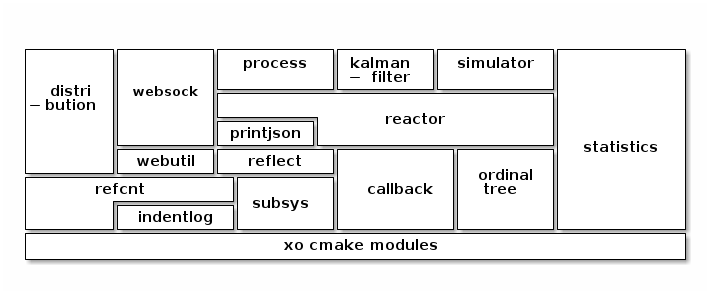
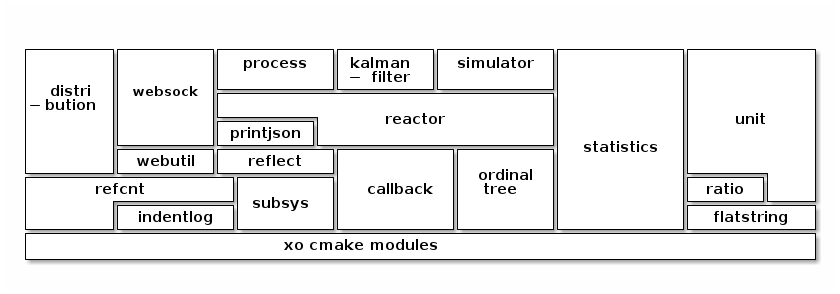
update

diff --git a/sw/xo.html b/sw/xo.html
@@ -3,7 +3,7 @@
 "http://www.w3.org/TR/xhtml1/DTD/xhtml1-strict.dtd">
 <html xmlns="http://www.w3.org/1999/xhtml" lang="en" xml:lang="en">
 <head>
-<!-- 2024-04-18 Thu 18:04 -->
+<!-- 2024-04-25 Thu 18:08 -->
 <meta http-equiv="Content-Type" content="text/html;charset=utf-8" />
 <meta name="viewport" content="width=device-width, initial-scale=1" />
 <title>xo libraries</title>
@@ -115,6 +115,7 @@ data structures
 dimension [wip]
 </p>
 <ul class="org-ul">
+<li><a href="https://github.com/rconybea/xo-unit">xo-unit</a> header-only.  no-alloc constexpr exact unit conversions with some fractional-dimension support.</li>
 <li><a href="https://github.com/rconybea/xo-ratio">xo-ratio</a> header-only.  no-alloc constexpr exact ratio arithmetic.</li>
 <li><a href="https://github.com/rconybea/xo-flatstring">xo-flatstring</a> header-only. no-alloc plain-old-data constexpr string implementation</li>
 </ul>
@@ -215,7 +216,7 @@ Each python library <code>pyfoo</code> depends on similarly-named c++ library <c
 </div>
 <div id="postamble" class="status">
 <p class="author">Author: Roland Conybeare</p>
-<p class="date">Created: 2024-04-18 Thu 18:04</p>
+<p class="date">Created: 2024-04-25 Thu 18:08</p>
 <p class="validation"><a href="https://validator.w3.org/check?uri=referer">Validate</a></p>
 </div>
 </body>

diff --git a/orgpub/org-examples-src.html b/orgpub/org-examples-src.html
@@ -3,7 +3,7 @@
 "http://www.w3.org/TR/xhtml1/DTD/xhtml1-strict.dtd">
 <html xmlns="http://www.w3.org/1999/xhtml" lang="en" xml:lang="en">
 <head>
-<!-- 2024-04-18 Thu 18:04 -->
+<!-- 2024-04-25 Thu 18:08 -->
 <meta http-equiv="Content-Type" content="text/html;charset=utf-8" />
 <meta name="viewport" content="width=device-width, initial-scale=1" />
 <title>org-examples source</title>
@@ -222,7 +222,7 @@ org_html_manager.setup();  // activate after the parameters are set
  <a accesskey="H" href="../index.html"> HOME </a>
 </div><div id="content" class="content">
 <h1 class="title">org-examples source</h1>
-<pre class="example" id="org3b9a980">
+<pre class="example" id="org2433192">
 #+title: org-mode examples / tutorial
 # H:2   controls section numbering.
 #       number top-level and second-level headings only
@@ -310,7 +310,7 @@ org_html_manager.setup();  // activate after the parameters are set
 </div>
 <div id="postamble" class="status">
 <p class="author">Author: Roland Conybeare</p>
-<p class="date">Created: 2024-04-18 Thu 18:04</p>
+<p class="date">Created: 2024-04-25 Thu 18:08</p>
 <p class="validation"><a href="https://validator.w3.org/check?uri=referer">Validate</a></p>
 </div>
 </body>

diff --git a/d3/drag4/index-src.html b/d3/drag4/index-src.html
@@ -3,7 +3,7 @@
 "http://www.w3.org/TR/xhtml1/DTD/xhtml1-strict.dtd">
 <html xmlns="http://www.w3.org/1999/xhtml" lang="en" xml:lang="en">
 <head>
-<!-- 2024-04-18 Thu 18:04 -->
+<!-- 2024-04-25 Thu 18:08 -->
 <meta http-equiv="Content-Type" content="text/html;charset=utf-8" />
 <meta name="viewport" content="width=device-width, initial-scale=1" />
 <title>d3/drag4 .org source</title>
@@ -222,7 +222,7 @@ org_html_manager.setup();  // activate after the parameters are set
  <a accesskey="H" href="../../index.html"> HOME </a>
 </div><div id="content" class="content">
 <h1 class="title">d3/drag4 .org source</h1>
-<pre class="example" id="org1654733">
+<pre class="example" id="orgc733e67">
 #+title: d3 draggable object example #4 -- parametric + improved selection identification
 #
 # org-publish options
@@ -434,7 +434,7 @@ org_html_manager.setup();  // activate after the parameters are set
 </div>
 <div id="postamble" class="status">
 <p class="author">Author: Roland Conybeare</p>
-<p class="date">Created: 2024-04-18 Thu 18:04</p>
+<p class="date">Created: 2024-04-25 Thu 18:08</p>
 <p class="validation"><a href="https://validator.w3.org/check?uri=referer">Validate</a></p>
 </div>
 </body>

diff --git a/d3/drag5/index-src.html b/d3/drag5/index-src.html
@@ -3,7 +3,7 @@
 "http://www.w3.org/TR/xhtml1/DTD/xhtml1-strict.dtd">
 <html xmlns="http://www.w3.org/1999/xhtml" lang="en" xml:lang="en">
 <head>
-<!-- 2024-04-18 Thu 18:04 -->
+<!-- 2024-04-25 Thu 18:08 -->
 <meta http-equiv="Content-Type" content="text/html;charset=utf-8" />
 <meta name="viewport" content="width=device-width, initial-scale=1" />
 <title>d3/drag5 .org source</title>
@@ -222,7 +222,7 @@ org_html_manager.setup();  // activate after the parameters are set
  <a accesskey="H" href="../../index.html"> HOME </a>
 </div><div id="content" class="content">
 <h1 class="title">d3/drag5 .org source</h1>
-<pre class="example" id="org3747ee6">
+<pre class="example" id="org5210cf2">
 #+title: d3 draggable object example #5 -- parametric + tangent line
 #
 # org-publish options
@@ -401,7 +401,7 @@ org_html_manager.setup();  // activate after the parameters are set
 </div>
 <div id="postamble" class="status">
 <p class="author">Author: Roland Conybeare</p>
-<p class="date">Created: 2024-04-18 Thu 18:04</p>
+<p class="date">Created: 2024-04-25 Thu 18:08</p>
 <p class="validation"><a href="https://validator.w3.org/check?uri=referer">Validate</a></p>
 </div>
 </body>

diff --git a/d3/drag1/index-src.html b/d3/drag1/index-src.html
@@ -3,7 +3,7 @@
 "http://www.w3.org/TR/xhtml1/DTD/xhtml1-strict.dtd">
 <html xmlns="http://www.w3.org/1999/xhtml" lang="en" xml:lang="en">
 <head>
-<!-- 2024-04-18 Thu 18:04 -->
+<!-- 2024-04-25 Thu 18:08 -->
 <meta http-equiv="Content-Type" content="text/html;charset=utf-8" />
 <meta name="viewport" content="width=device-width, initial-scale=1" />
 <title>d3/drag1 .org source</title>
@@ -222,7 +222,7 @@ org_html_manager.setup();  // activate after the parameters are set
  <a accesskey="H" href="../../index.html"> HOME </a>
 </div><div id="content" class="content">
 <h1 class="title">d3/drag1 .org source</h1>
-<pre class="example" id="org97277d4">
+<pre class="example" id="org768589b">
 #+title: d3 draggable object example #1 -- standalone
 #
 # org-publish options
@@ -291,7 +291,7 @@ org_html_manager.setup();  // activate after the parameters are set
 </div>
 <div id="postamble" class="status">
 <p class="author">Author: Roland Conybeare</p>
-<p class="date">Created: 2024-04-18 Thu 18:04</p>
+<p class="date">Created: 2024-04-25 Thu 18:08</p>
 <p class="validation"><a href="https://validator.w3.org/check?uri=referer">Validate</a></p>
 </div>
 </body>

diff --git a/d3/drag3/index-src.html b/d3/drag3/index-src.html
@@ -3,7 +3,7 @@
 "http://www.w3.org/TR/xhtml1/DTD/xhtml1-strict.dtd">
 <html xmlns="http://www.w3.org/1999/xhtml" lang="en" xml:lang="en">
 <head>
-<!-- 2024-04-18 Thu 18:04 -->
+<!-- 2024-04-25 Thu 18:08 -->
 <meta http-equiv="Content-Type" content="text/html;charset=utf-8" />
 <meta name="viewport" content="width=device-width, initial-scale=1" />
 <title>d3/drag3 .org source</title>
@@ -222,7 +222,7 @@ org_html_manager.setup();  // activate after the parameters are set
  <a accesskey="H" href="../../index.html"> HOME </a>
 </div><div id="content" class="content">
 <h1 class="title">d3/drag3 .org source</h1>
-<pre class="example" id="org7a005c4">
+<pre class="example" id="org4a407d7">
 #+title: d3 draggable object example #3 -- parametric
 #
 # org-publish options
@@ -324,7 +324,7 @@ org_html_manager.setup();  // activate after the parameters are set
 </div>
 <div id="postamble" class="status">
 <p class="author">Author: Roland Conybeare</p>
-<p class="date">Created: 2024-04-18 Thu 18:04</p>
+<p class="date">Created: 2024-04-25 Thu 18:08</p>
 <p class="validation"><a href="https://validator.w3.org/check?uri=referer">Validate</a></p>
 </div>
 </body>

diff --git a/option/blackscholes/index-src.html b/option/blackscholes/index-src.html
@@ -3,7 +3,7 @@
 "http://www.w3.org/TR/xhtml1/DTD/xhtml1-strict.dtd">
 <html xmlns="http://www.w3.org/1999/xhtml" lang="en" xml:lang="en">
 <head>
-<!-- 2024-04-18 Thu 18:04 -->
+<!-- 2024-04-25 Thu 18:08 -->
 <meta http-equiv="Content-Type" content="text/html;charset=utf-8" />
 <meta name="viewport" content="width=device-width, initial-scale=1" />
 <title>option/blackscholes .org source</title>
@@ -222,7 +222,7 @@ org_html_manager.setup();  // activate after the parameters are set
  <a accesskey="H" href="../../index.html"> HOME </a>
 </div><div id="content" class="content">
 <h1 class="title">option/blackscholes .org source</h1>
-<pre class="example" id="org11c228a">
+<pre class="example" id="orga09cb30">
 #+title: black-scholes example
 #
 # org-publish options
@@ -323,7 +323,7 @@ org_html_manager.setup();  // activate after the parameters are set
 </div>
 <div id="postamble" class="status">
 <p class="author">Author: Roland Conybeare</p>
-<p class="date">Created: 2024-04-18 Thu 18:04</p>
+<p class="date">Created: 2024-04-25 Thu 18:08</p>
 <p class="validation"><a href="https://validator.w3.org/check?uri=referer">Validate</a></p>
 </div>
 </body>

diff --git a/index-src.html b/index-src.html
@@ -3,7 +3,7 @@
 "http://www.w3.org/TR/xhtml1/DTD/xhtml1-strict.dtd">
 <html xmlns="http://www.w3.org/1999/xhtml" lang="en" xml:lang="en">
 <head>
-<!-- 2024-04-18 Thu 18:04 -->
+<!-- 2024-04-25 Thu 18:08 -->
 <meta http-equiv="Content-Type" content="text/html;charset=utf-8" />
 <meta name="viewport" content="width=device-width, initial-scale=1" />
 <title>index.org source</title>
@@ -222,7 +222,7 @@ org_html_manager.setup();  // activate after the parameters are set
  <a accesskey="H" href=""> HOME </a>
 </div><div id="content" class="content">
 <h1 class="title">index.org source</h1>
-<pre class="example" id="orgcbf31c9">
+<pre class="example" id="orgbe7a15c">
 #+title: assorted how-tos
 #+author: Roland Conybeare
 #+email: git3ub@nym.hush.com
@@ -294,7 +294,7 @@ org_html_manager.setup();  // activate after the parameters are set
 </div>
 <div id="postamble" class="status">
 <p class="author">Author: Roland Conybeare</p>
-<p class="date">Created: 2024-04-18 Thu 18:04</p>
+<p class="date">Created: 2024-04-25 Thu 18:08</p>
 <p class="validation"><a href="https://validator.w3.org/check?uri=referer">Validate</a></p>
 </div>
 </body>

diff --git a/octave/octave-crib-src.html b/octave/octave-crib-src.html
@@ -3,7 +3,7 @@
 "http://www.w3.org/TR/xhtml1/DTD/xhtml1-strict.dtd">
 <html xmlns="http://www.w3.org/1999/xhtml" lang="en" xml:lang="en">
 <head>
-<!-- 2024-04-18 Thu 18:04 -->
+<!-- 2024-04-25 Thu 18:08 -->
 <meta http-equiv="Content-Type" content="text/html;charset=utf-8" />
 <meta name="viewport" content="width=device-width, initial-scale=1" />
 <title>octave crib .org source</title>
@@ -222,7 +222,7 @@ org_html_manager.setup();  // activate after the parameters are set
  <a accesskey="H" href="../../../index.html"> HOME </a>
 </div><div id="content" class="content">
 <h1 class="title">octave crib .org source</h1>
-<pre class="example" id="orgb397e46">
+<pre class="example" id="org4c6de1f">
 #+title: octave crib
 #
 # org-publish options
@@ -306,7 +306,7 @@ org_html_manager.setup();  // activate after the parameters are set
 </div>
 <div id="postamble" class="status">
 <p class="author">Author: Roland Conybeare</p>
-<p class="date">Created: 2024-04-18 Thu 18:04</p>
+<p class="date">Created: 2024-04-25 Thu 18:08</p>
 <p class="validation"><a href="https://validator.w3.org/check?uri=referer">Validate</a></p>
 </div>
 </body>

diff --git a/xo-unit/README.md b/xo-unit/README.md
@@ -1,0 +1,9 @@
+- In =org-howto=:
+  Otherwise-empty placeholder directory for sphinx-generated xo-unit documentation
+
+- In =public_html/org-howto/xo-unit=:
+  Sphinx-generated documentation in this directory,  copied/installed from somewhere like =xo-unit/.build/docs/sphinx=
+  Entry point will be =org-howto/xo-unit/index.html=
+
+- Note that github jekyll treats directories that begin with underscore as special.
+  Suppress that behavior by creating a =.nojekyll= file in repo root.
